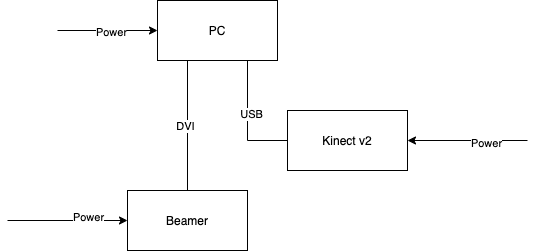
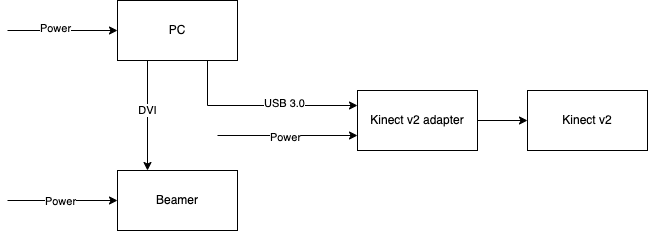
Update docs

Changed region(s): [[0.0, 0.0, 0.5373, 1.0], [0.3284, 0.3636, 1.0, 0.697], [0.3881, 0.0909, 0.4179, 0.1515]]

diff --git a/docs/ARSandBox_Manual_ITA.tex b/docs/ARSandBox_Manual_ITA.tex
@@ -44,7 +44,7 @@
 			nell'apertura
 			\item Montare il Kinect sul supporto dedicato e far passare il cavo nell'apertura
 			\item Collegare l'alimentazione e il cavo DVI al PC, ed eventualmente gli altoparlanti
-			\item Collegare l'alimentazione del Kinect e il cavo USB (blu) ad una porta USB 3.0 (blu) del PC
+			\item Collegare il Kinect al suo adattatore e quest'ultimo all'alimentazione e ad una porta USB 3.0 (blu) del PC
 		\end{enumerate}
 
 		\begin{figure}[H]
@@ -62,12 +62,21 @@
 		
 	\subsection{Avvio}
 
-		Accendere il proiettore, dopodiché avviare il PC e cliccare sul collegamento
-		\texttt{ARSandBox} sul Desktop. Controllare che il proiettore \textbf{non} sia in modalità 3D
-		(menu $\rightarrow$ stereo $\rightarrow$ stereo mode).\\
+		Accendere il proiettore, dopodiché avviare il PC e attendere l'avvio automatico del software.
+		Per avviare il software manualmente è possibile cliccare sul collegamento
+		\texttt{ARSandBox} sul Desktop.\\
 
-		Se l'immagine dovesse essere calibrata correttamente (con spazio è possibile vedere 
-		un'anteprima), premere F5 per uscire dalla modalità setup.
+		Una volta aperto il software, premere il tasto 0 per caricare l'ultima configurazione salvata e
+		Spazio per vedere un'anteprima. È possibile regolare l'immagine con i comandi descritti
+		al capitolo \ref{sec:commands}. Per uscire dalla modalità setup, premere F5.\\
+
+		NOTA: il terreno con le mucche (selezionato di default) è molto pesante e può fare crashare l'applicazione.
+		In caso dovesse succedere, in modalità setup è possibile selezionare con F3 un altro terreno simile
+		ma più leggero.
+		
+		In caso l'immagine sia di cattiva qualità, controllare
+		che il proiettore \textbf{non} sia in modalità 3D (menu $\rightarrow$ stereo $\rightarrow$ stereo mode).\\
+
 
 	\subsection{Spegnimento}
 		
@@ -77,8 +86,13 @@
 		
 		
 \section{Utilizzo}
+		
+	Il programma riconosce dinamicamente, grazie al sensore Kinect, i cambiamenti di altezza della sabbia
+	e adatta automaticamente l'immagine proiettata. Gli animali (mucche o pesci, a dipendenza del terreno
+	selezionato) camminano unicamente sulle superfici dov'è possibile, anch'essi adattandosi all'ambiente
+	che li circonda.
 
-	\subsection{Tasti utili}
+	\subsection{Tasti utili}\label{sec:commands}
 	
 	\begin{tabular}{l l}
 		ESC & esci\\
@@ -92,9 +106,9 @@
 	\begin{tabular}{l l}
 		Shift & movimento più lento\\
 
-		F1 & terreno 1\\
-		F2 & terreno 2\\
-		F3 & terreno 3\\
+		F1 & terreno 1 (montagne con mucche)\\
+		F2 & terreno 2 (lava)\\
+		F3 & terreno 3 (pianure con pesci)\\
 
 		1/2/3/4 & seleziona angoli\\
 		5 & ridimensiona terreno\\
@@ -102,7 +116,7 @@
 
 		W/A/S/D & sposta il terreno nella direzione corrispondente\\
 
-		Space & entra in modalità calibrazione Kinect/proiettore\\
+		Space & entra in modalità anteprima\\
 
 		9 & salva calibrazione su disco\\
 		0 & carica calibrazione dal disco\\
@@ -112,7 +126,7 @@
 	\end{tabular}
 		
 		
-\section{Codice sorgente}
+\section{Codice sorgente}\label{sec:code}
 
 	Il codice sorgente dell'applicazione, assieme alle istruzioni per compilarla, si trova alla pagina \url{https://github.com/USI-Showroom/ARSandbox}.
 		

diff --git a/README.md b/README.md
@@ -1,8 +1,7 @@
-## What is this repository for?
-Virtual 3D sandbox project
-
+# Virtual 3D sandbox project
 
 ## How do I get set up?
+
 You need:
 
 * C++ compiler
@@ -12,22 +11,25 @@ You need:
 * Kinect v2 SDK
 
 Notes:
+
 * You can modify `src/resource/shaders/HeightMap.frag` by commenting/uncommenting the first two lines if you have the Kinect and your machine supports new shaders
 * On windows the Kinect is enabled by default; if you don't have one, define the macro `NO_KINECT`
 
-
 ### Linux
+
 * `sudo apt install cmake`
 * `sudo apt install qt5-default`
 * Download OpenCV from their [Sourceforge page](https://sourceforge.net/projects/opencvlibrary/)
 
 ### Mac
+
 * Install XCode from the Apple Store
 * Install [homebrew](https://brew.sh/)
 * Install dependencies with homebrew: `brew install cmake qt opencv`
 * Add Qt to PATH: `echo 'export PATH="/usr/local/opt/qt/bin:$PATH"' >> ~/.bashrc` or `echo 'export PATH="/usr/local/opt/qt/bin:$PATH"' >> ~/.zshrc` depending on your shell
- 
+
 ### Windows
+
 * Install Visual Studio (the community version is free) to obtain the C++ compiler. Select "Desktop development"
 * Download and install cmake from its [official website](https://cmake.org/download/)
 * Download Qt5 from the [official website](https://www.qt.io/download/). Choose the Open Source version, install it in `C:\`
@@ -36,11 +38,12 @@ Notes:
 * Set the environment variable `Qt5_DIR` to the x64 installation of Qt (e.g. `C:\Qt\5.15.0\msvc2019_64`)
 * Add the Qt and OpenCV bin folders (e.g. `C:\Qt\5.15.0\msvc2019_64\bin` and `C:\opencv\build\x64\vc15\bin`) to PATH and reboot your machine
 
-
 ## Compiling
+
 Use cmake to generate a makefile (on Linux and Mac), or a Visual Studio project (on Windows).
 
 ### Linux/Mac
+
 * `mkdir bin`
 * `cd bin`
 * `cmake ..`
@@ -48,6 +51,7 @@ Use cmake to generate a makefile (on Linux and Mac), or a Visual Studio project 
 * `./ARSandBox`
 
 ### Windows
+
 * Open the cmake GUI
 * Under "Where is the source code", select the root folder of the project
 * Under "Where to build the binaries" select the bin folder in the root directory
@@ -61,24 +65,24 @@ Use cmake to generate a makefile (on Linux and Mac), or a Visual Studio project 
 Note: if you get errors about certain DLLs, delete those in the `bin\Release` folder and
 run `windeployqt ARSandBox.exe` in there
 
-
 ## Run @ USI
+
 See [these instructions](https://github.com/USI-Showroom/ARSandBox/blob/master/docs/ARSandBox_Manual_ITA.pdf)
 
-
 ## Common keys
+
 `ESC`:         exit\
 `P`:           save mesh/point cloud\
 `F5`:          exit setup mode\
 `-`:           turn off visualization and show only sand
 
-  
 ### In setup mode
+
 `Shift`:       slower movement
 
-`F1`:          terrain 1\
-`F2`:          terrain 2\
-`F3`:          terrain 3
+`F1`:          terrain 1 (mountains with cows)\
+`F2`:          terrain 2 (lava)\
+`F3`:          terrain 3 (plains with fishes)
 
 `1/2/3/4`:     select corners\
 `5`:           scale\
@@ -86,7 +90,7 @@ See [these instructions](https://github.com/USI-Showroom/ARSandBox/blob/master/d
 
 `W/A/S/D`:     move the current selection in the four directions
 
-`Space`:       toggle Kinect calibration/projector calibration
+`Space`:       toggle preview
 
 `9`:           save current calibration to disk\
 `0`:           load calibration from disk
